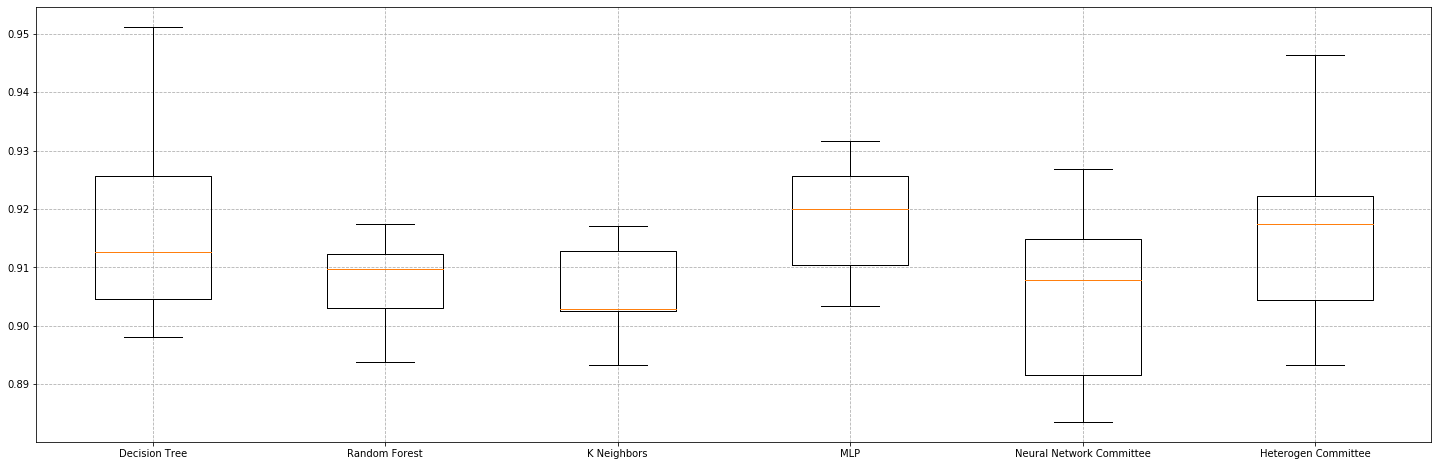
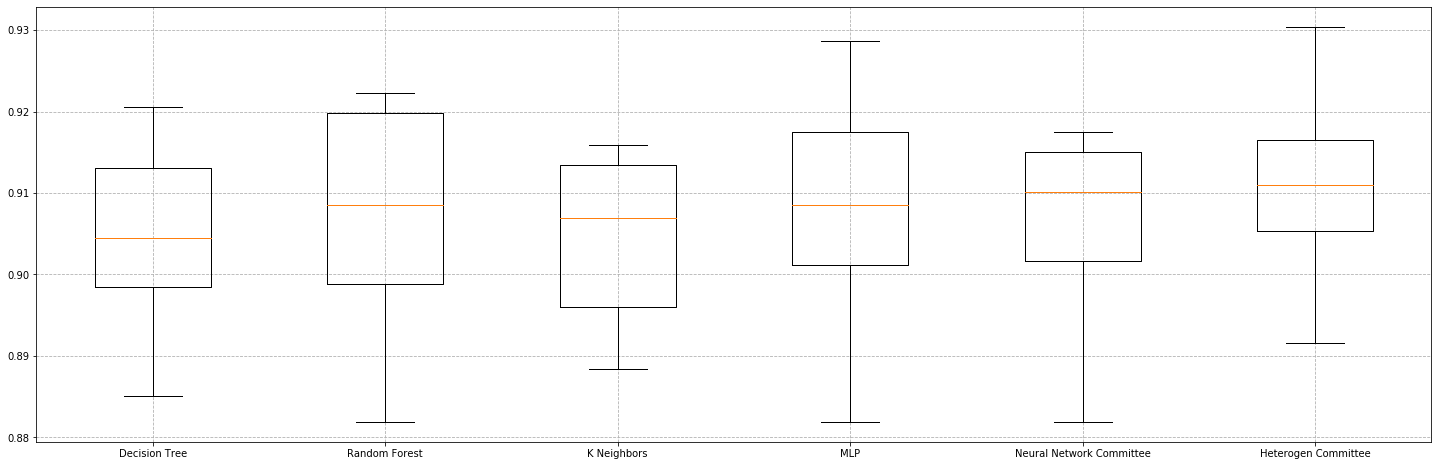
Fix performance_blox_plot

diff --git a/performance/performance_box_plot.py b/performance/performance_box_plot.py
@@ -16,21 +16,21 @@ pandas.set_option('display.max_rows', None)
 SEED = 42
 np.random.seed(SEED)
 
-# Full test set
-test_file = "../datasets/test.csv"
+# Full train set
+train_file = "../datasets/train.csv"
 
 
-def get_test_set(filepath, size=0.20):
-    dataset = pandas.read_csv(test_file)
+def get_train_set(filepath, size=0.20):
+    dataset = pandas.read_csv(filepath)
 
     test_size = 1.0 - size
 
     # use 20% of the train to search best params
-    test, _ = train_test_split(dataset,
+    train, _ = train_test_split(dataset,
                                 test_size=test_size,
                                 random_state=SEED)
 
-    return test
+    return train
 
 def setup_kfold(X, Y, n_splits):
     kf = StratifiedKFold(n_splits=n_splits, random_state=SEED)
@@ -130,11 +130,11 @@ names = []
 K_SPLITS = 10
 
 # split test set by 20%
-test = get_test_set(test_file, 0.20)
+train = get_train_set(train_file, 0.20)
 
 # separate class from other columns
-X = test.values[:, :-1]
-Y = test['y']
+X = train.values[:, :-1]
+Y = train['y']
 
 # KFold
 kfold = setup_kfold(X, Y, K_SPLITS)
